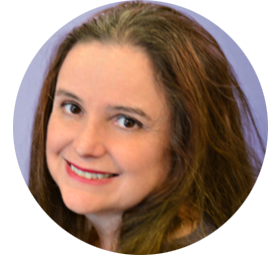
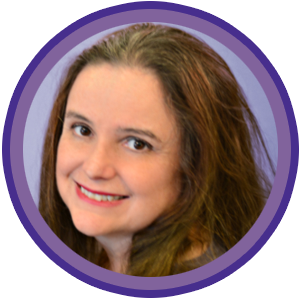
fixed providers

diff --git a/src/index.html b/src/index.html
@@ -135,6 +135,19 @@
       <div class="col text-center">
         <div class="py-4">
           <h1 class="display-4">Providers</h1>
+          <div class="row">
+            <div class="col-sm">
+              <img src="../img/paroski.png" alt="">
+              <h5>Sylvie H. Paroski</h5>
+              <p>M.D., Board Certified for F.A.C.O.G</p>
+            </div>
+            <div class="col-sm">
+              <img src="../img/smitherman.png" alt="">
+              <h5>Cheryl Smitherman</h5>
+              <p>DNP, CNM</p>
+            </div>
+          </div>
+
         </div>
 
   </section>

diff --git a/src/css/style.css b/src/css/style.css
@@ -73,6 +73,9 @@ p {
   background-size: cover;
   background-attachment: fixed;
   min-height: 700px; }
+  #providers-head-section img {
+    margin-top: 30px;
+    width: 300px; }
 
 #services-head-section h1 {
   padding-bottom: 0; }

diff --git a/src/scss/style.scss b/src/scss/style.scss
@@ -109,6 +109,10 @@ p {
   background-size: cover;
   background-attachment: fixed;
   min-height: 700px;
+  img {
+    margin-top: 30px;
+    width: 300px;
+  }
 }
 
 #services-head-section {
